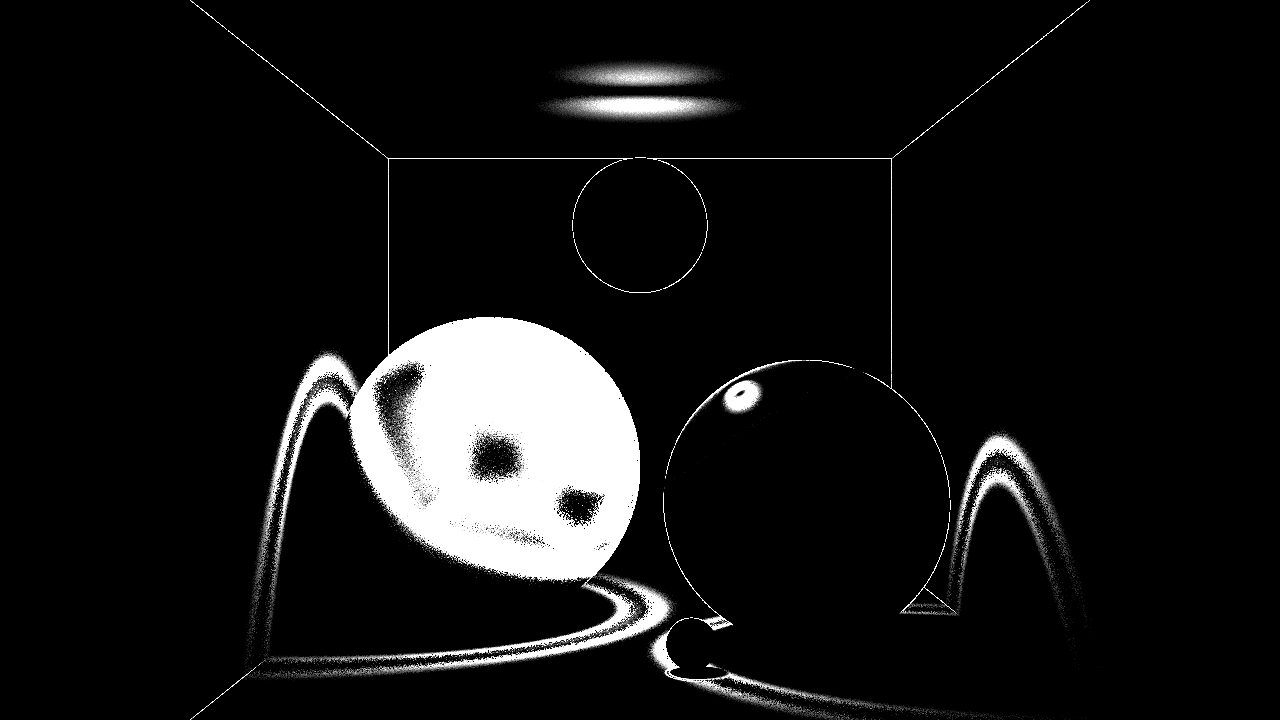
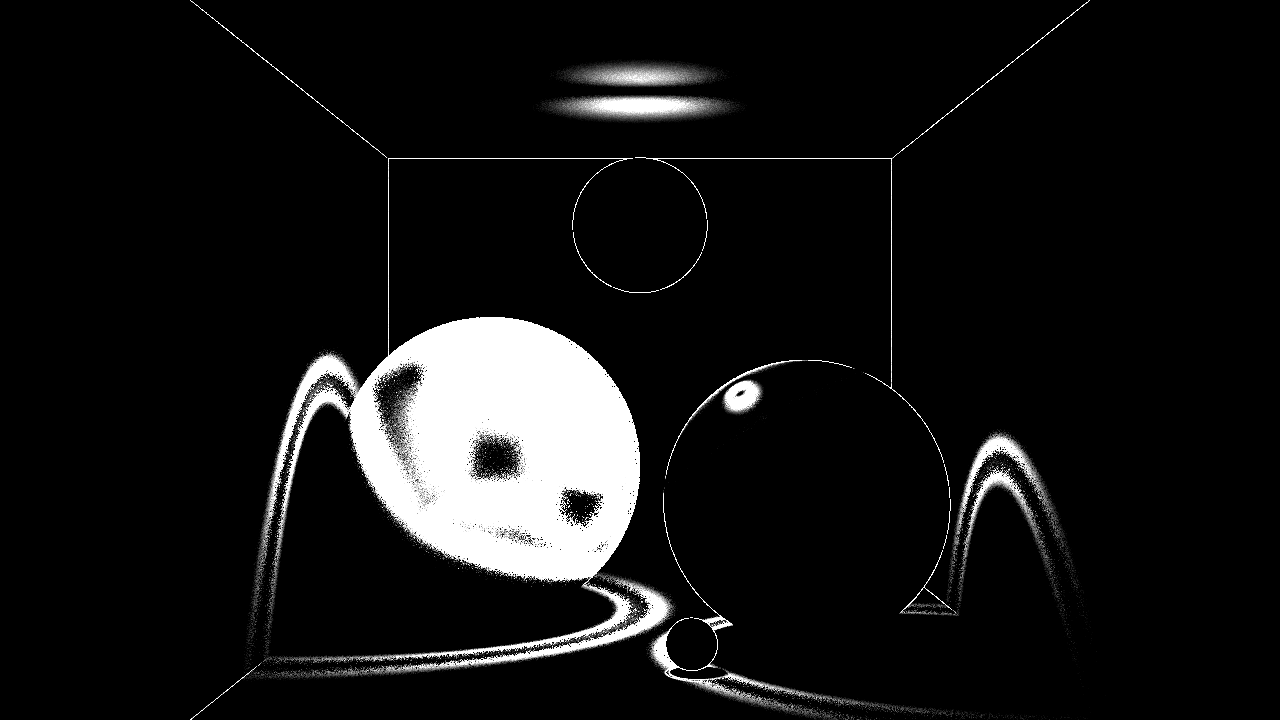
Added emission

diff --git a/src/materials.cpp b/src/materials.cpp
@@ -12,7 +12,7 @@ namespace
 
 Color MtlBlinn::Shade(ShadeInfo const &shadeInfo) const
 {
-    Color finalColor{};
+    Color finalColor{ emission.GetValue() };
 
     Vec3f normal{ shadeInfo.N().GetNormalized() };
     //return Color{ normal.x, normal.y, normal.z };
